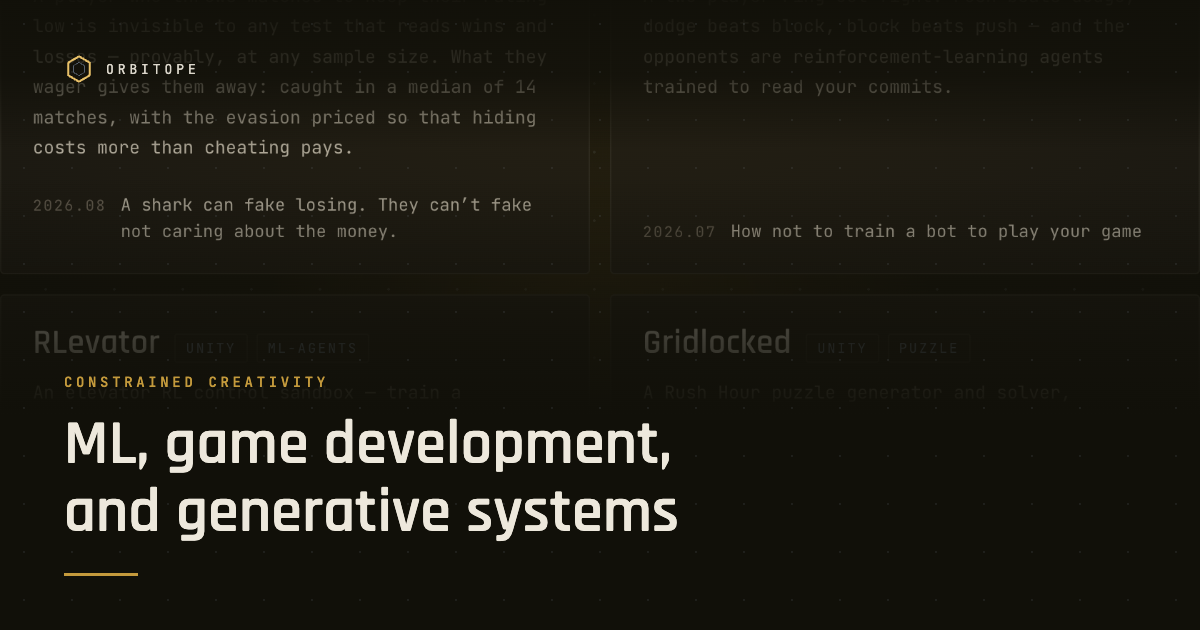
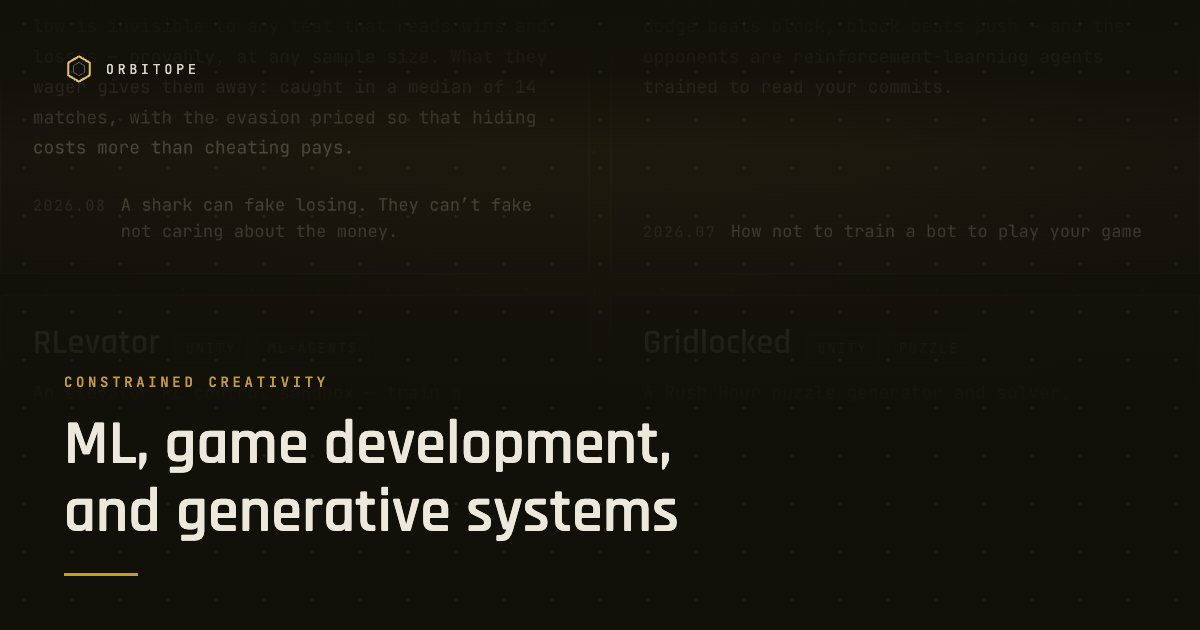
Knock back the landing card's backdrop
Its capture is a screenshot of the project cards, which is itself mostly text
— at 0.85 it competed with the headline instead of backing it. Per-article
`dim` rather than a lower global default, because the article cards are
figures and want the higher value.

diff --git a/tools/og-card/card.html b/tools/og-card/card.html
@@ -23,7 +23,7 @@
        at the size a timeline renders a card. */
     position: absolute; top: 0; left: 0; right: 0; height: 68%;
     background-size: cover; background-position: center center;
-    opacity: 0.85;
+    opacity: var(--shot-opacity, 0.85);
   }
   /* Two scrims: a bottom-heavy one so text has ground to sit on, and an
      overall warm tint that pulls foreign screenshot colours toward the palette. */
@@ -99,4 +99,7 @@
   // label), so step the size down rather than letting one overflow the card.
   const size = title.length > 82 ? 44 : title.length > 58 ? 52 : 62;
   document.documentElement.style.setProperty('--size', size + 'px');
+  // A capture that is itself mostly text competes with the headline instead of
+  // backing it, so those entries knock their layer down further.
+  if (q.get('dim')) document.documentElement.style.setProperty('--shot-opacity', q.get('dim'));
 </script>
